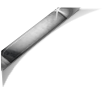
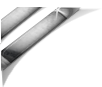
Pimped platinum sponsor box.

Changed region(s): [[0.0, 0.069, 0.4706, 0.5057]]

diff --git a/views/website.sass b/views/website.sass
@@ -455,6 +455,9 @@ html
                   
                 &#platinum
                   background-image: url('/images/ribbon_platinum.png')
+              ul#list.citrusbyte
+                background-color: #ea2a60
+                background-image: none
               
               h1                
                 padding: 5px 0 2px
